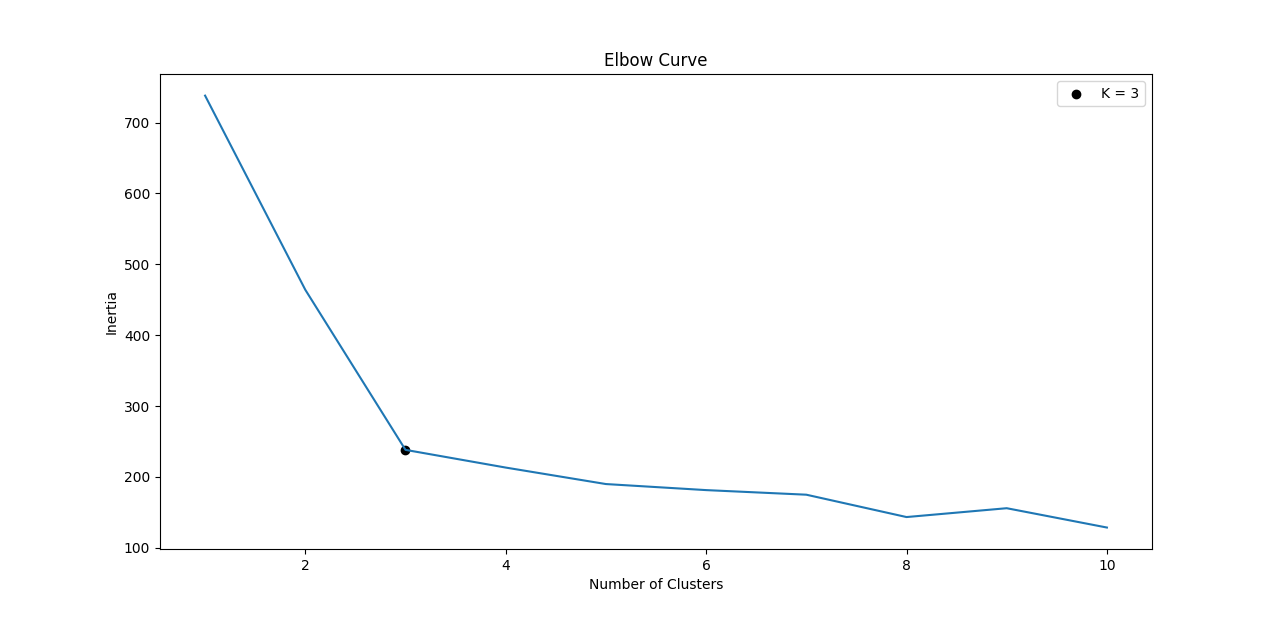
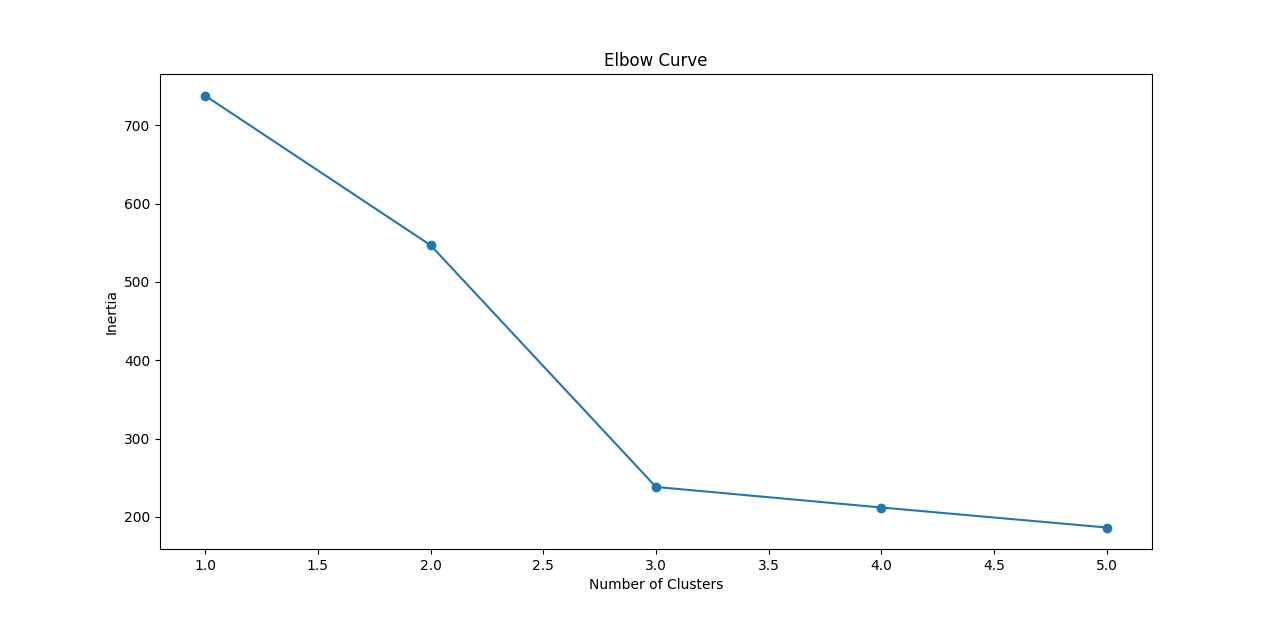
Decision Tree Added

diff --git a/Numpy/Decision Tree/DecisionTreeClassifier.py b/Numpy/Decision Tree/DecisionTreeClassifier.py
@@ -1,0 +1,133 @@
+import numpy as np
+
+class Node:
+	def __init__(self, level_:int,X_:np.ndarray, Y_:np.ndarray):
+		self.level = level_
+		self.X = X_
+		self.Y = Y_
+		
+		self.class_distribution:dict = {}
+		self.gini:float = 0
+		self.isLeaf:bool = False
+
+		# Only valid if isLeaf is False
+		self.information_gain:float = -1
+		self.split_point:any = None
+		self.split_feature:int = -1
+		self.left:Node = None
+		self.right:Node = None
+
+	def __str__(self):
+		res = f'Level: {self.level}\n'
+		res += f'Gini Impurity: {self.gini}\n'
+		res += f'Class Distribution: {self.class_distribution}\n'
+		if not self.isLeaf:
+			res += f'Information Gain: {self.information_gain}\n'
+			res += f'Split Feature: {self.split_feature}\n'
+			res += f'Split Point: {self.split_point}\n'
+		else:
+			res += 'Leaf Node: True\n'
+		res += '..................................\n'
+		return res
+
+class DecisionTreeClassifier:
+	def __init__(self):
+		self.root = None
+
+	def get_class_distribution(self, node):
+		class_distribution = {}
+		for target in node:
+			if target.item() not in class_distribution:
+				class_distribution[target.item()] = 1
+			else:
+				class_distribution[target.item()] += 1
+		return class_distribution
+	def compute_gini_impurity(self, node):
+		class_distribution = self.get_class_distribution(node)
+		gini = 1
+		for key in class_distribution:
+			prob = class_distribution[key]/float(node.shape[0])
+			gini -= (prob**2)
+		return gini
+	def compute_information_gain(self, cur_gini, left_Y, right_Y):
+		p = left_Y.shape[0] / (left_Y.shape[0] + right_Y.shape[0])
+		return cur_gini - p * self.compute_gini_impurity(left_Y) - (1 - p)*self.compute_gini_impurity(right_Y)
+	def get_nth_feature_means(self,X, N):
+		means = []
+		values = np.unique(X[X[:, N].argsort(), N])
+		for i in range(values.shape[0] - 1):
+			means.append(np.mean([values[i], values[i + 1]]))
+		return means
+
+
+	def build_tree(self, cur_node):
+		X = cur_node.X
+		Y = cur_node.Y
+		assert X.shape[0] == Y.shape[0], "Shapes for data and targets must be same"
+
+		cur_gini = self.compute_gini_impurity(Y)
+		cur_node.gini = cur_gini
+		cur_node.class_distribution = self.get_class_distribution(Y)
+		if cur_gini == 0:
+			cur_node.isLeaf = True
+			return
+		for N in range(X.shape[1]):
+			possible_split_points = self.get_nth_feature_means(X, N)
+			for split_point in possible_split_points:
+				mask = (X[:,N] <= split_point)
+				not_mask = np.logical_not(mask)
+				left_X, left_Y = X[mask], Y[mask]
+				right_X, right_Y = X[not_mask], Y[not_mask]
+				cur_ig = self.compute_information_gain(cur_gini, left_Y, right_Y)
+				if cur_node.information_gain < cur_ig:					
+					
+					cur_node.information_gain = cur_ig
+					cur_node.split_point = split_point
+					cur_node.split_feature = N
+
+					cur_node.left = Node(cur_node.level + 1, left_X, left_Y)
+					cur_node.right = Node(cur_node.level + 1, right_X, right_Y)
+		self.build_tree(cur_node.left)
+		self.build_tree(cur_node.right)
+		return
+	def __str__(self):
+		res = ""
+		if self.root == None:
+			return res
+		q = []
+		q.append(self.root)
+		while not len(q) == 0:
+			cur_node = q.pop(0)
+			res += str(cur_node)
+			if not cur_node.isLeaf:
+				q.append(cur_node.left)
+				q.append(cur_node.right)
+		return res
+	def fit(self, X, Y):
+		self.root = Node(0, X, Y)
+		self.build_tree(self.root)
+
+	def predict_one(self, X):
+		assert self.root != None, "Fit the model first"
+		cur_node = self.root
+		while cur_node.isLeaf != True:
+			split_feature = cur_node.split_feature
+			split_point = cur_node.split_point
+			if X[split_feature] <= split_point:
+				cur_node = cur_node.left
+			else:
+				cur_node = cur_node.right
+		return cur_node.Y[0].item()
+	def predict(self, X):
+		if len(X.shape) == 1:
+			X = np.expand_dims(X, axis = 0)
+		res = []
+		for i in range(X.shape[0]):
+			res.append(self.predict_one(X[i]))
+		return res
+	def accuracy(self, X, Y):
+		assert self.root != None, "Fit the model first"
+		pred = self.predict(X)
+		pred = np.array(pred).reshape(-1, 1)
+		correct = (pred == Y).sum()
+		return (correct / X.shape[0])*100

diff --git a/Numpy/KMeans/trainKMeans.py b/Numpy/KMeans/trainKMeans.py
@@ -6,10 +6,9 @@ from computeMeans import *
 from computeCost import *
 
 # returns centroids, centroids_history for best choice of K on basis of elbow curve
-def trainKMeans(X, max_iter = 15, max_clusters = 10):
+def trainKMeans(X, threshold = 100, max_clusters = 10):
 	final_cost = -1
 	update = True
-	threshold = 100
 	final_clusters:int
 	final_centroids_history:list
 	final_idx:np.ndarray
@@ -21,14 +20,18 @@ def trainKMeans(X, max_iter = 15, max_clusters = 10):
 		# Initializing Centroids
 		centroids = initializeCentroids(X, CLUSTERS)
 
-		# Manually choose initial centroids for visualization purpose
-		if CLUSTERS == 3:
-			centroids = np.array([[3,3],[6,2],[8,5]])
-
-		for epoch in range(max_iter):
-			centroids_history.append(centroids)
+		centroids_history.append(centroids)
+		prev_cost = -1
+		while(True):
 			idx = findClosestCentroid(X, centroids)
 			centroids = computeMeans(X, idx, CLUSTERS)
+			cur_cost = computeCost(X,idx,centroids)
+			if prev_cost == -1 or prev_cost > cur_cost:
+				prev_cost = cur_cost
+				centroids_history.append(centroids)
+			else:
+				break
+
 		cost = computeCost(X,idx,centroids)
 		costs.append(cost)
 		if not update:
@@ -47,12 +50,11 @@ def trainKMeans(X, max_iter = 15, max_clusters = 10):
 				final_clusters = CLUSTERS
 				final_idx = idx
 				final_centroids_history = centroids_history
+	# Plot inertia vs K graph
 	xx = np.arange(1, max_clusters + 1)
-	plt.plot(xx, costs)
+	plt.plot(xx, costs, "-o")
 	plt.xlabel('Number of Clusters')
 	plt.ylabel('Inertia')
 	plt.title('Elbow Curve')
-	plt.scatter(final_clusters, costs[final_clusters - 1], label=f"K = {final_clusters}", color='black')
-	plt.legend()
 	plt.show()
 	return [final_clusters, final_idx, final_centroids_history, final_cost]

diff --git a/Numpy/Decision Tree/main.py b/Numpy/Decision Tree/main.py
@@ -1,0 +1,22 @@
+from sklearn import datasets
+from sklearn.model_selection import train_test_split
+import pandas as pd
+import numpy as np
+from DecisionTreeClassifier import DecisionTreeClassifier
+
+iris = datasets.load_iris()
+X = iris.data
+Y = iris.target.reshape(-1, 1)
+print(iris.feature_names, iris.target_names)
+
+X_train, X_test, y_train, y_test = train_test_split(X, Y, test_size = 0.3, random_state = 42, stratify = Y)
+
+tree = DecisionTreeClassifier()
+tree.fit(X_train, y_train)
+print(tree)
+
+# pred = tree.predict(X_train)
+
+# Always gives 100% accuracy on training dataset
+print('Training Accuracy: {:.2f}%'.format(tree.accuracy(X_train, y_train)))
+print('Test Accuracy: {:.2f}%'.format(tree.accuracy(X_test, y_test)))

diff --git a/Numpy/KMeans/kmeans_iris.py b/Numpy/KMeans/kmeans_iris.py
@@ -1,0 +1,23 @@
+from sklearn import datasets
+import numpy as np
+import pandas as pd
+import matplotlib.pyplot as plt
+import seaborn as sns
+import matplotlib.cm as cm
+from trainKMeans import *
+
+iris = datasets.load_iris()
+X = iris.data
+
+CLUSTERS, idx, centroids_history, cost = trainKMeans(X, max_clusters = 5, threshold = 20)
+
+# Changing default colors of plt.scatterplot input data
+colors = cm.rainbow(np.linspace(0, 1, CLUSTERS))
+cs = [colors[x] for x in idx.tolist()]
+
+# Plotting Input Data
+plt.scatter(X[:,0], X[:,2], c = cs)
+cur_centroids = centroids_history[-1]
+plt.scatter(cur_centroids[:,0],cur_centroids[:,1],color='black',marker='x',s=100, linewidths=2)
+plt.title(f"CLUSTERS = {CLUSTERS}")
+plt.show()

diff --git a/Numpy/KMeans/main.py b/Numpy/KMeans/main.py
@@ -9,7 +9,7 @@ from trainKMeans import *
 df = pd.read_csv('data.csv', header = None)
 X = df.values
 
-CLUSTERS,idx,centroids_history,cost = trainKMeans(X)
+CLUSTERS,idx,centroids_history,cost = trainKMeans(X, max_clusters = 5)
 
 # Changing default colors of plt.scatterplot input data
 colors = cm.rainbow(np.linspace(0, 1, CLUSTERS))

diff --git a/Numpy/README.md b/Numpy/README.md
@@ -38,6 +38,15 @@
   </tr>
 
   <tr>
+    <td colspan="2">Decision Tree</td>
+  </tr>
+  <tr>
+    <td colspan="2">
+      <img alt="Decision Tree Model" src = "./Decision%20Tree/model.svg">
+    </td>
+  </tr>
+
+  <tr>
     <td colspan="2">K-Means</td>
   </tr>
   <tr>
@@ -48,4 +57,5 @@
       <img alt="Elbow Curve" src = "./KMeans/ElbowCurve.png">
   </td>
   </tr>
+
 </table>
